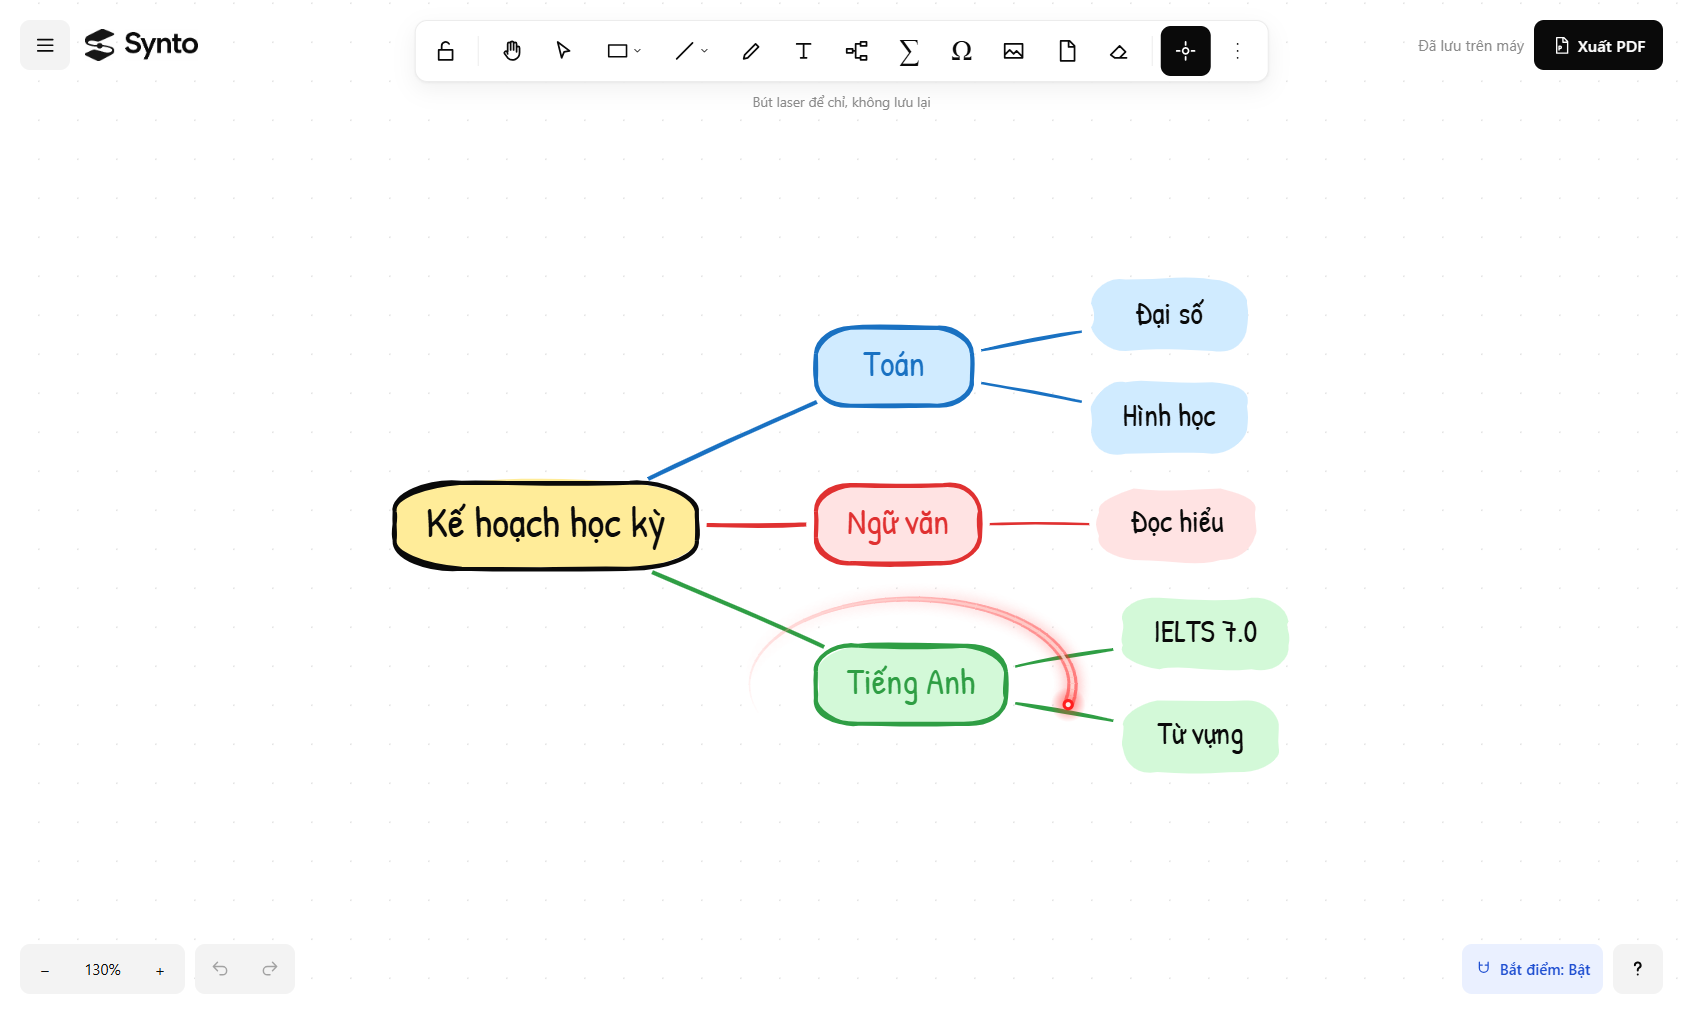
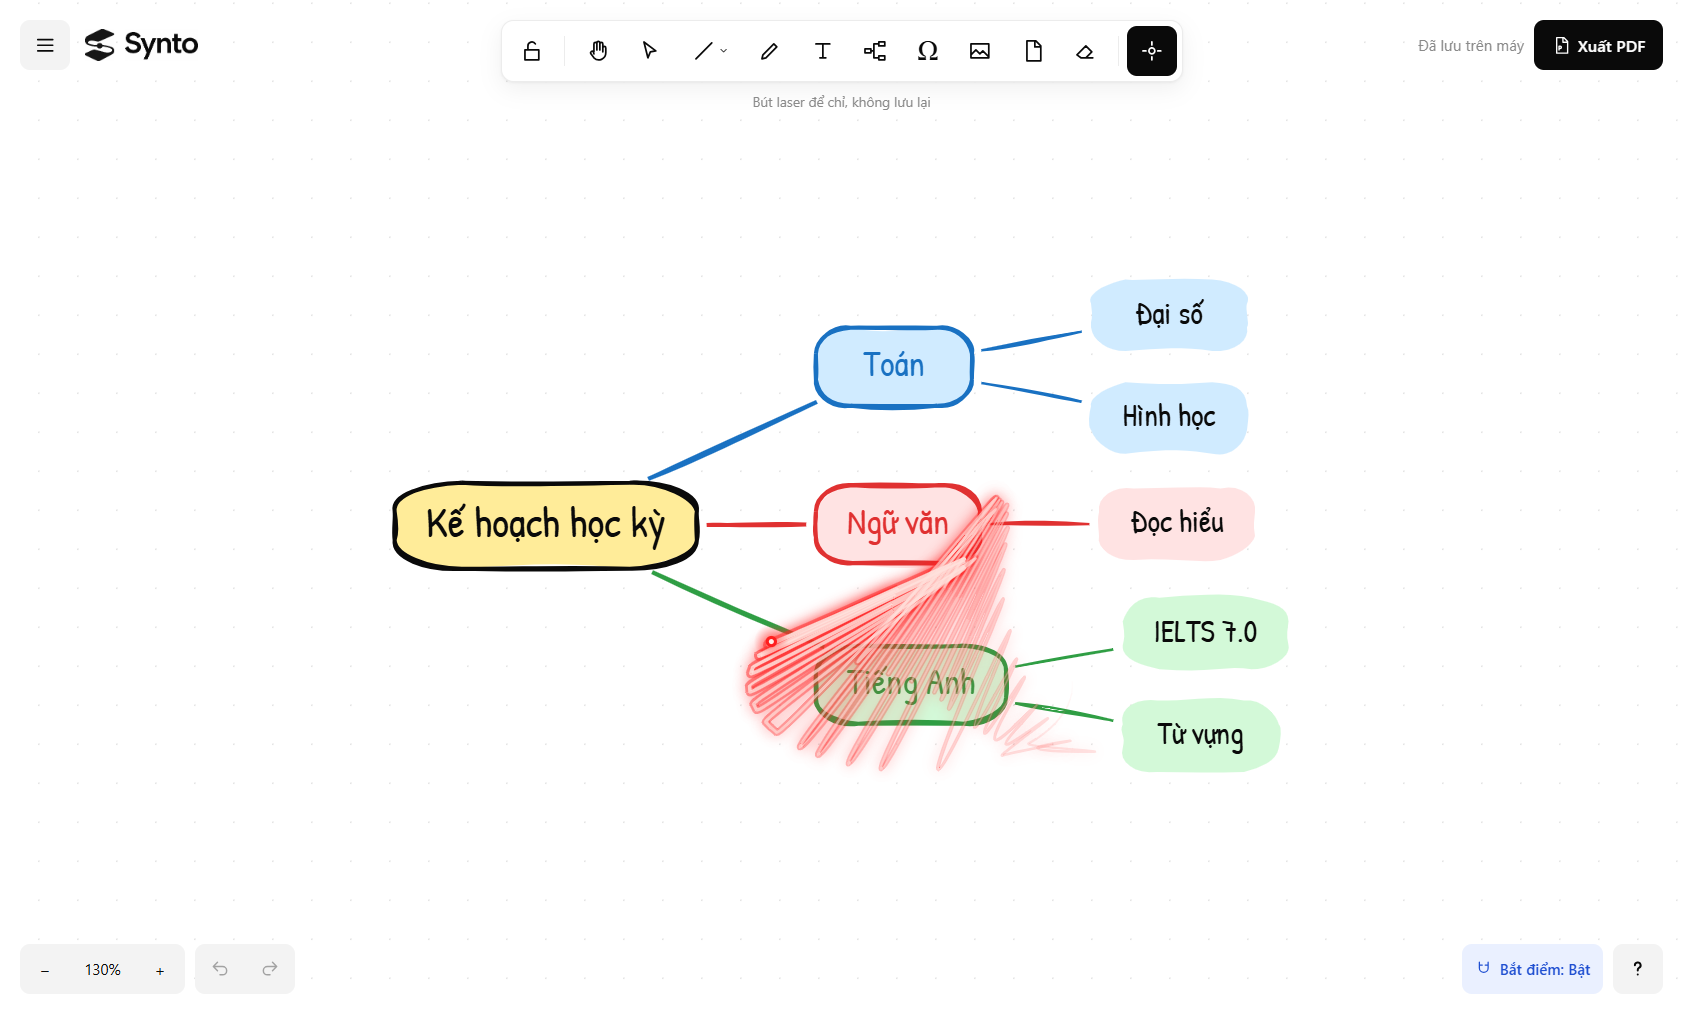
Slimmer toolbar: drop shape, formula and overflow buttons
Image, PDF and laser are always on the toolbar now. Existing shapes and formulas still render and edit. Screenshot script restores minimized windows and retries profile cleanup.

diff --git a/app/src/ui.js b/app/src/ui.js
@@ -1,7 +1,7 @@
 // DOM user interface around the canvas: toolbar, properties, popovers, dialogs.
 
 import { h, icon } from './util.js';
-import { SHAPE_GROUPS, SHAPES, designPath } from './shapelib.js';
+import { SHAPES } from './shapelib.js';
 import { SNAP_LABELS } from './snapping.js';
 import { katexHtml } from './mathrender.js';
 import { quickToLatex, applyAutoReplace } from './textinput.js';
@@ -82,23 +82,6 @@ const SYMBOL_LATEX = {
   '□': '\\square', '○': '\\circ', '⊙': '\\odot',
 };
 
-function shapeIcon(id, size = 22, params) {
-  const s = document.createElementNS('http://www.w3.org/2000/svg', 'svg');
-  s.setAttribute('viewBox', '0 0 24 24');
-  s.setAttribute('width', size);
-  s.setAttribute('height', size);
-  s.setAttribute('aria-hidden', 'true');
-  const p = document.createElementNS('http://www.w3.org/2000/svg', 'path');
-  p.setAttribute('d', designPath(id, params));
-  p.setAttribute('fill', 'none');
-  p.setAttribute('stroke', 'currentColor');
-  p.setAttribute('stroke-width', '1.6');
-  p.setAttribute('stroke-linecap', 'round');
-  p.setAttribute('stroke-linejoin', 'round');
-  s.appendChild(p);
-  return s;
-}
-
 export class UI {
   constructor(app) {
     this.app = app;
@@ -165,22 +148,19 @@ export class UI {
     this.toolButtons = {
       hand: T('hand', 'Kéo', I.hand, 'H'),
       select: T('select', 'Chọn', I.select, '1'),
-      shape: T('shape', 'Hình khối', I.hex, '2', { wide: true, onclick: (e) => this.toggleShapes(e.currentTarget) }),
       line: T('line', 'Nét', I.curve, '3', { wide: true, onclick: (e) => this.toggleLines(e.currentTarget) }),
       pen: T('pen', 'Bút', I.pen, '4', { onclick: () => this.app.setTool('pen', { penMode: 'pen' }) }),
       text: T('text', 'Chữ', I.text, '5'),
       mindmap: T('mindmap', 'Sơ đồ tư duy', I.mindmap, 'N'),
-      math: T('math', 'Công thức', h('span', { class: 'glyph' }, '∑'), '6', { onclick: () => { this.app.setTool('math'); this.openMathEditor(null, null); } }),
       symbol: T('symbol', 'Ký hiệu', h('span', { class: 'glyph' }, 'Ω'), '7', { onclick: (e) => this.toggleSymbols(e.currentTarget) }),
-      image: T('image', 'Chèn ảnh', I.image, '8', { cls: 't-extra', onclick: () => this.app.pickAndInsert('image') }),
-      file: T('file', 'Chèn PDF', I.file, '9', { cls: 't-extra', onclick: () => this.app.pickAndInsert('pdf') }),
+      image: T('image', 'Chèn ảnh', I.image, '8', { onclick: () => this.app.pickAndInsert('image') }),
+      file: T('file', 'Chèn PDF', I.file, '9', { onclick: () => this.app.pickAndInsert('pdf') }),
       eraser: T('eraser', 'Tẩy', I.eraser, '0'),
-      laser: T('laser', 'Bút laser', I.laser, 'K', { cls: 't-extra' }),
+      laser: T('laser', 'Bút laser', I.laser, 'K'),
     };
-    const moreBtn = h('button', { class: 'tb', 'aria-label': 'Thêm công cụ', title: 'Thêm', onclick: (e) => this.toggleMore(e.currentTarget) }, icon(I.more, 19, 'stroke-width="3"'));
     const tb = this.toolButtons;
-    bar.append(this.lockBtn, h('span', { class: 'sep' }), tb.hand, tb.select, tb.shape, tb.line, tb.pen, tb.text, tb.mindmap, tb.math, tb.symbol, tb.image, tb.file, tb.eraser,
-      h('span', { class: 'sep t-extra' }), tb.laser, moreBtn);
+    bar.append(this.lockBtn, h('span', { class: 'sep' }), tb.hand, tb.select, tb.line, tb.pen, tb.text, tb.mindmap, tb.symbol, tb.image, tb.file, tb.eraser,
+      h('span', { class: 'sep' }), tb.laser);
     this.hint = h('span', { class: 'hint' });
     host.append(bar, this.hint);
   }
@@ -192,9 +172,7 @@ export class UI {
       b.classList.toggle('on', on);
       b.setAttribute('aria-pressed', on ? 'true' : 'false');
     }
-    // Shape / line buttons show the current choice.
-    const shapeBtn = this.toolButtons.shape;
-    shapeBtn.replaceChild(shapeIcon(s.shapeId, 19, s.shapeParams), shapeBtn.firstChild);
+    // The line button shows the current choice.
     const lineIcons = { segment: I.segment, polyline: I.polyline, curve: I.curve, arc: I.arc };
     const lineBtn = this.toolButtons.line;
     const lic = s.tool === 'pen' && s.penMode === 'highlighter' ? I.highlighter : lineIcons[s.lineKind] || I.curve;
@@ -441,36 +419,6 @@ export class UI {
     ), 300);
   }
 
-  toggleShapes(anchor) {
-    const app = this.app;
-    let filter = '';
-    let tab = 'Tất cả';
-    const body = h('div');
-    const draw = () => {
-      body.replaceChildren();
-      const q = filter.trim().toLowerCase().normalize('NFC');
-      for (const g of SHAPE_GROUPS) {
-        if (tab !== 'Tất cả' && g.name !== tab) continue;
-        const items = g.items.filter((s) => !q || s.n.toLowerCase().includes(q) || g.name.toLowerCase().includes(q));
-        if (!items.length) continue;
-        body.append(h('div', { class: 'group-title' }, g.name), h('div', { class: 'tiles' }, items.map((s) => h('button', {
-          class: 'tile' + (app.state.shapeId === s.id && app.state.tool === 'shape' ? ' on' : ''), title: s.n, 'aria-label': s.n,
-          onclick: () => { app.setTool('shape', { shapeId: s.id }); this.closePopover(); },
-        }, shapeIcon(s.id, 24, app.state.shapeParams), h('span', null, s.n)))));
-      }
-      if (!body.childNodes.length) body.append(h('p', { class: 'muted' }, 'Không có hình nào khớp.'));
-    };
-    const tabs = h('div', { class: 'tabs' });
-    const drawTabs = () => {
-      tabs.replaceChildren(...['Tất cả', ...SHAPE_GROUPS.map((g) => g.name)].map((n) => h('button', { class: 'tab' + (tab === n ? ' on' : ''), onclick: () => { tab = n; drawTabs(); draw(); } }, n)));
-    };
-    drawTabs();
-    draw();
-    const search = h('input', { placeholder: 'Tìm hình: thang, mũi tên, sao…', 'aria-label': 'Tìm hình', oninput: (e) => { filter = e.target.value; draw(); } });
-    const pop = this.openPopover('shapes', anchor, [h('div', { class: 'search' }, icon('M11 5a6 6 0 1 0 .01 0M20 20l-4-4', 14), search), tabs, body], 560);
-    if (pop) setTimeout(() => search.focus(), 0);
-  }
-
   toggleLines(anchor) {
     const app = this.app;
     const item = (ic, label, k, fn, on) => h('button', { class: 'menu-item' + (on ? ' on' : ''), style: on ? { background: '#0a0a0a', color: '#fff' } : {}, onclick: () => { fn(); this.closePopover(); } }, icon(ic, 18), label, h('span', { class: 'k' }, k));
@@ -502,17 +450,6 @@ export class UI {
     const drawTabs = () => tabs.replaceChildren(...['Tất cả', ...SYMBOL_GROUPS.map((g) => g.name)].map((n) => h('button', { class: 'tab' + (tab === n ? ' on' : ''), onclick: () => { tab = n; drawTabs(); draw(); } }, n)));
     drawTabs(); draw();
     this.openPopover(onPick ? 'symbols-math' : 'symbols', anchor, [h('h3', null, 'Ký hiệu'), h('p', { class: 'muted', style: { margin: '0 0 4px', fontSize: '11px' } }, 'Hoặc gõ \\tên rồi dấu cách trong ô chữ, ví dụ \\delta → δ'), tabs, body], 420);
-  }
-
-  toggleMore(anchor) {
-    const app = this.app;
-    const item = (ic, label, k, fn) => h('button', { class: 'menu-item', onclick: () => { this.closePopover(); fn(); } }, icon(ic, 16), label, h('span', { class: 'k' }, k));
-    this.openPopover('more', anchor, h('div', { class: 'menu' },
-      item(I.image, 'Chèn ảnh…', '', () => app.pickAndInsert('image')),
-      item(I.file, 'Chèn PDF…', '', () => app.pickAndInsert('pdf')),
-      item(I.laser, 'Bút laser', 'K', () => app.setTool('laser')),
-      item(I.hand, 'Kéo mặt giấy', 'H', () => app.setTool('hand')),
-    ), 240);
   }
 
   toggleSnap(anchor) {
@@ -551,8 +488,8 @@ export class UI {
 
   openHelp() {
     const rows = [
-      ['Chọn', '1 / V'], ['Kéo mặt giấy', 'H hoặc giữ Space'], ['Hình khối', '2'], ['Nét', '3'], ['Bút', '4 / P'], ['Bút dạ quang', 'Shift+P'],
-      ['Chữ', '5 / T'], ['Công thức', '6 / M'], ['Ký hiệu', '7'], ['Chèn ảnh', '8'], ['Chèn PDF', '9'], ['Tẩy', '0 / E'], ['Laser', 'K'],
+      ['Chọn', '1 / V'], ['Kéo mặt giấy', 'H hoặc giữ Space'], ['Nét', '3'], ['Bút', '4 / P'], ['Bút dạ quang', 'Shift+P'],
+      ['Chữ', '5 / T'], ['Ký hiệu', '7'], ['Chèn ảnh', '8'], ['Chèn PDF', '9'], ['Tẩy', '0 / E'], ['Laser', 'K'],
       ['Giữ công cụ', 'Q'], ['Hoàn tác / Làm lại', 'Ctrl+Z / Ctrl+Y'], ['Nhân bản', 'Ctrl+D'], ['Chọn tất cả', 'Ctrl+A'], ['Xoá', 'Delete'],
       ['Sao chép / Dán', 'Ctrl+C / Ctrl+V'], ['Lưu / Mở', 'Ctrl+S / Ctrl+O'], ['Xuất PNG', 'Ctrl+Shift+E'], ['Phóng to / nhỏ', 'Ctrl+= / Ctrl+-, Ctrl+lăn chuột'],
       ['Về 100%', 'Ctrl+0'], ['Vừa nội dung', 'Shift+1'], ['Đưa lên / xuống', 'Ctrl+] / Ctrl+['], ['Giữ tỉ lệ / khoá góc', 'Shift'], ['Tắt bắt điểm tạm thời', 'Alt'],

diff --git a/app/src/main.js b/app/src/main.js
@@ -228,9 +228,7 @@ function onKey(e, app, ui) {
   if (digit) {
     const n = +digit[1];
     if (tools[n]) { app.setTool(tools[n], n === 4 ? { penMode: 'pen' } : {}); return; }
-    if (n === 2) { if (app.state.tool === 'shape') ui.toggleShapes(ui.toolButtons.shape); else app.setTool('shape'); return; }
     if (n === 3) { if (app.state.tool === 'line') ui.toggleLines(ui.toolButtons.line); else app.setTool('line'); return; }
-    if (n === 6) { app.setTool('math'); ui.openMathEditor(null, null); return; }
     if (n === 7) { ui.toggleSymbols(ui.toolButtons.symbol); return; }
     if (n === 8) { app.pickAndInsert('image'); return; }
     if (n === 9) { app.pickAndInsert('pdf'); return; }
@@ -241,7 +239,6 @@ function onKey(e, app, ui) {
     case 'p': app.setTool('pen', { penMode: e.shiftKey ? 'highlighter' : 'pen' }); break;
     case 't': app.setTool('text'); break;
     case 'n': app.setTool('mindmap'); break;
-    case 'm': app.setTool('math'); ui.openMathEditor(null, null); break;
     case 'e': app.setTool('eraser'); break;
     case 'k': app.setTool('laser'); break;
     case 'l': app.setTool('line', { lineKind: e.shiftKey ? 'polyline' : 'segment' }); break;

diff --git a/tests/e2e-keys.js b/tests/e2e-keys.js
@@ -15,7 +15,8 @@
     c.dispatchEvent(new PointerEvent(type, { pointerId: 1, bubbles: true, cancelable: true, clientX: r.left + x, clientY: r.top + y, button: 0, buttons: type === 'pointerup' ? 0 : 1, pointerType: 'mouse' }));
   };
   const drag = async (a, b) => { ev('pointerdown', a); for (let i = 1; i <= 6; i++) { ev('pointermove', [a[0] + ((b[0] - a[0]) * i) / 6, a[1] + ((b[1] - a[1]) * i) / 6]); await sleep(10); } ev('pointerup', b); await sleep(30); };
-  for (let i = 0; i < 5; i++) { app.setTool('shape', { shapeId: 'rect' }); await drag([300 + i * 150, 300], [400 + i * 150, 380]); }
+  // No shape tool in the toolbar any more; drive the internal shape drawing directly.
+  for (let i = 0; i < 5; i++) { app.state.tool = 'shape'; app.state.shapeId = 'rect'; await drag([300 + i * 150, 300], [400 + i * 150, 380]); }
   app.select([]);
   let last = '-', count = 0;
   window.addEventListener('keydown', (e) => { count++; last = `${e.ctrlKey ? 'C+' : ''}${e.shiftKey ? 'S+' : ''}${e.key}${e.repeat ? '(rep)' : ''}${e.defaultPrevented ? '(prevented)' : ''}`; }, true);

diff --git a/tests/e2e-smoke.js b/tests/e2e-smoke.js
@@ -60,7 +60,7 @@
     app.setStyle({ strokeColor: '#0a0a0a', strokeStyle: 'solid' });
 
     // Shapes from the library.
-    const shape = async (id, a, b, style) => { if (style) app.setStyle(style); app.setTool('shape', { shapeId: id }); await drag(a, b); };
+    const shape = async (id, a, b, style) => { if (style) app.setStyle(style); app.state.tool = 'shape'; app.state.shapeId = id; await drag(a, b); };
     await shape('hexagon', [520, 380], [660, 490], { fillColor: '#a5d8ff', fillStyle: 'hachure' });
     app.state.shapeParams.points = 5;
     await shape('star', [700, 370], [820, 490], { fillColor: '#ffec99', fillStyle: 'solid' });

diff --git a/app/src/app.js b/app/src/app.js
@@ -25,7 +25,8 @@ const SNAP_RADIUS = 12; // screen px
 const IMAGE_MIME = /^image\/(png|jpeg|gif|webp|svg\+xml)$/;
 const LASER_LIFE = 900; // ms a laser trail point stays visible
 
-export const TOOLS = ['hand', 'select', 'shape', 'line', 'pen', 'text', 'mindmap', 'math', 'eraser', 'laser'];
+// Shapes and formulas have no tool any more; existing ones still render and edit.
+export const TOOLS = ['hand', 'select', 'line', 'pen', 'text', 'mindmap', 'eraser', 'laser'];
 
 export class App {
   constructor(root) {

diff --git a/app/styles.css b/app/styles.css
@@ -146,7 +146,6 @@ kbd { font: inherit; font-size: 11px; border: 1px solid #e0e0e0; border-radius: 
   .status { display: none; }
 }
 @media (max-width: 959px) {
-  .t-extra { display: none; }
   .hint { display: none; }
 }
 @media (max-width: 789px) {

diff --git a/README.md b/README.md
@@ -7,7 +7,7 @@
 
 <p align="center">
   Ghi chú trên mặt giấy vô tận, nét vẽ tay kiểu Excalidraw, dành cho mọi người:<br>
-  công thức toán, ký hiệu, nét vẽ có bắt điểm, 63 hình phẳng, ảnh và PDF ngay trên canvas.
+  ký hiệu, nét vẽ có bắt điểm, sơ đồ tư duy, ảnh và PDF ngay trên canvas.
 </p>
 
 <p align="center">
@@ -33,12 +33,11 @@
 ## Tính năng
 
 - **Mặt giấy vô tận**: kéo, thu phóng (Ctrl + lăn chuột, hai ngón tay), lưới chấm bật/tắt.
-- **63 hình phẳng** trong 7 nhóm (cơ bản, tam giác · tứ giác, đa giác · sao, mũi tên, sơ đồ, chú thích, toán · hình học); đa giác đều và ngôi sao chỉnh được số cạnh, số cánh. Nét phác tay hoặc mượt, tô gạch, chéo hoặc đặc.
 - **Nét vẽ**: đoạn thẳng, gấp khúc, đường cong, cung qua 3 điểm, mũi tên, bút tự do, bút dạ quang.
 - **Bắt điểm tự động**: đỉnh, trung điểm, tâm, giao điểm, chân đường vuông góc, điểm trên cạnh. Giữ Alt để tạm tắt, Shift để khoá góc 15°.
 - **Sơ đồ tư duy** kiểu XMind: chủ đề là hộp có chữ (có viền hoặc không viền), nối bằng đường gắn vào hộp, kéo hộp thì đường đi theo, mỗi đầu đường chọn được mũi tên. Chọn một chủ đề: **Tab** thêm nhánh con, **Space** (nhấn nhả) hoặc **Enter** thêm nhánh ngang hàng, **F2** sửa chữ. Chữ cũng đặt được vào trong mọi hình học (bấm đúp vào hình).
 - **Chữ**: Patrick Hand (viết tay) và Arial, đủ dấu tiếng Việt. Gõ `>=` thành ≥, `\delta` rồi dấu cách thành δ.
-- **Công thức** KaTeX với chế độ gõ nhanh (`sqrt(x)`, `a/b`, `+-`) hoặc LaTeX, kèm bảng ký hiệu.
+- **Phím tắt**: Ctrl+A chọn toàn bộ, Ctrl+Z hoàn tác (giữ để lùi liên tục), Ctrl+Y làm lại.
 - **Ảnh và PDF** trên canvas: kéo thả, dán hoặc mở file. PDF thu phóng, cuộn trong khung, vẽ chú thích lên trang.
 - **Tẩy** kiểu Excalidraw, chỉnh được cỡ. **Bút laser** để trình bày.
 - **Dữ liệu của bạn**: tự lưu trên máy, lưu ra file `.synto` (Ctrl+S), **Xuất PDF** (nút góc phải, Ctrl+P) hoặc ảnh PNG.
@@ -101,7 +100,7 @@ powershell -ExecutionPolicy Bypass -File scripts\deploy-pages.ps1
 app/                 Ứng dụng web (HTML/CSS/JS thuần, ES modules, không cần bundler)
   src/main.js        Khởi động, nối sự kiện DOM
   src/app.js         Bộ điều khiển: công cụ, chuột/bút/cảm ứng, clipboard, file, lưu tự động
-  src/ui.js          Thanh công cụ, bảng thuộc tính, thư viện hình, ký hiệu, khung công thức
+  src/ui.js          Thanh công cụ, bảng thuộc tính, ký hiệu, khung sửa công thức
   src/renderer.js    Vẽ canvas (roughjs cho nét phác tay, perfect-freehand cho bút)
   src/elements.js    Mô hình phần tử (bất biến), hit test, kiểm tra dữ liệu nhập
   src/shapelib.js    63 hình phẳng (đường SVG trong hộp 24×24) + đa giác/sao có tham số

diff --git a/docs/marketing/README.md b/docs/marketing/README.md
@@ -12,8 +12,6 @@ powershell -ExecutionPolicy Bypass -File scripts\make-screenshots.ps1
 |---|---|---|
 | ![](01-tong-quan.png) | **Tổng quan**: ghi chú, công thức, hình học, sơ đồ tư duy, ảnh và PDF trên cùng một mặt giấy vô tận | *Mọi thứ bạn học và làm, trên một trang giấy không giới hạn.* |
 | ![](02-so-do-tu-duy.png) | **Sơ đồ tư duy** kiểu XMind: Tab thêm nhánh con, Space thêm nhánh ngang hàng, nhánh tô màu | *Tab là nhánh con, Space là nhánh ngang hàng. Ý tưởng chảy nhanh như bạn nghĩ.* |
-| ![](03-cong-thuc.png) | **Công thức** đẹp như sách: gõ nhanh `sqrt(x)`, `a/b` hoặc LaTeX, xem trước ngay | *Gõ như nói, hiện ra như sách giáo khoa.* |
-| ![](04-thu-vien-hinh.png) | **63 hình phẳng** trong 7 nhóm, nét phác tay, tô gạch / chéo / đặc | *63 hình, một phong cách vẽ tay riêng.* |
 | ![](05-bat-diem.png) | **Bắt điểm tự động**: đỉnh, trung điểm, tâm, giao điểm, vuông góc | *Vẽ hình học chính xác mà vẫn tự nhiên như vẽ tay.* |
 | ![](06-pdf.png) | **PDF ngay trên mặt giấy**: cuộn trang, thu phóng, vẽ chú thích, nối ghi chú bằng mũi tên | *Đọc, khoanh, ghi chú tài liệu PDF ngay cạnh ý tưởng của bạn.* |
 | ![](07-but-laser.png) | **Bút laser** để trình bày, vệt sáng tự tắt | *Trình bày như có bút laser thật.* |
